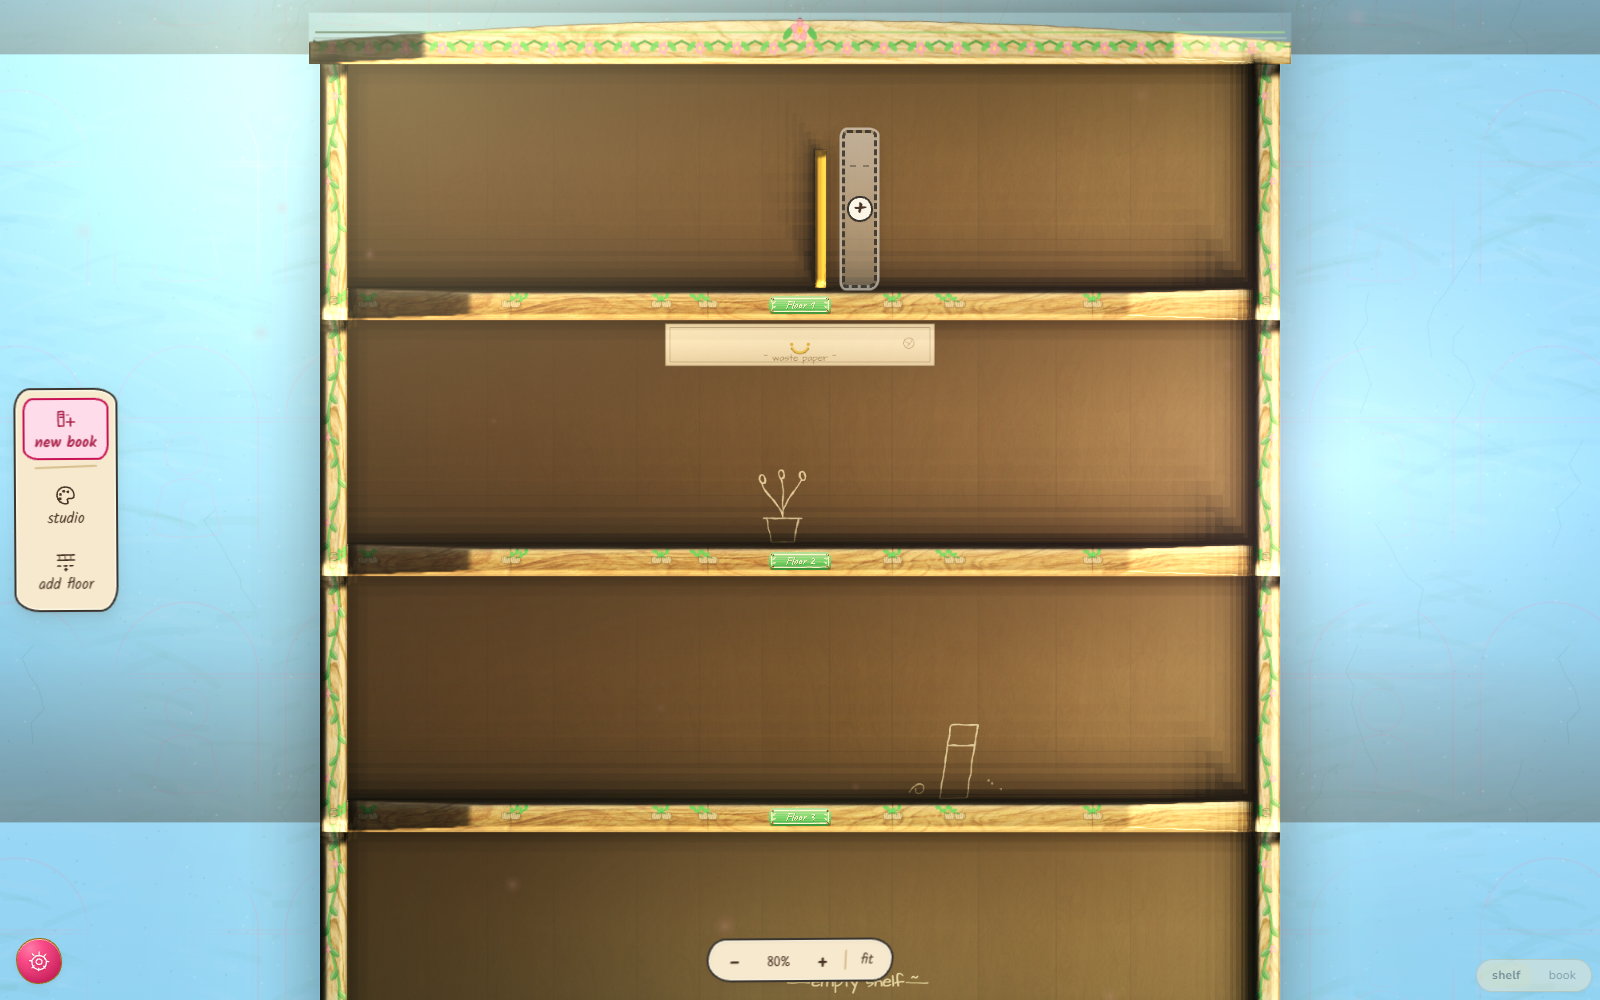
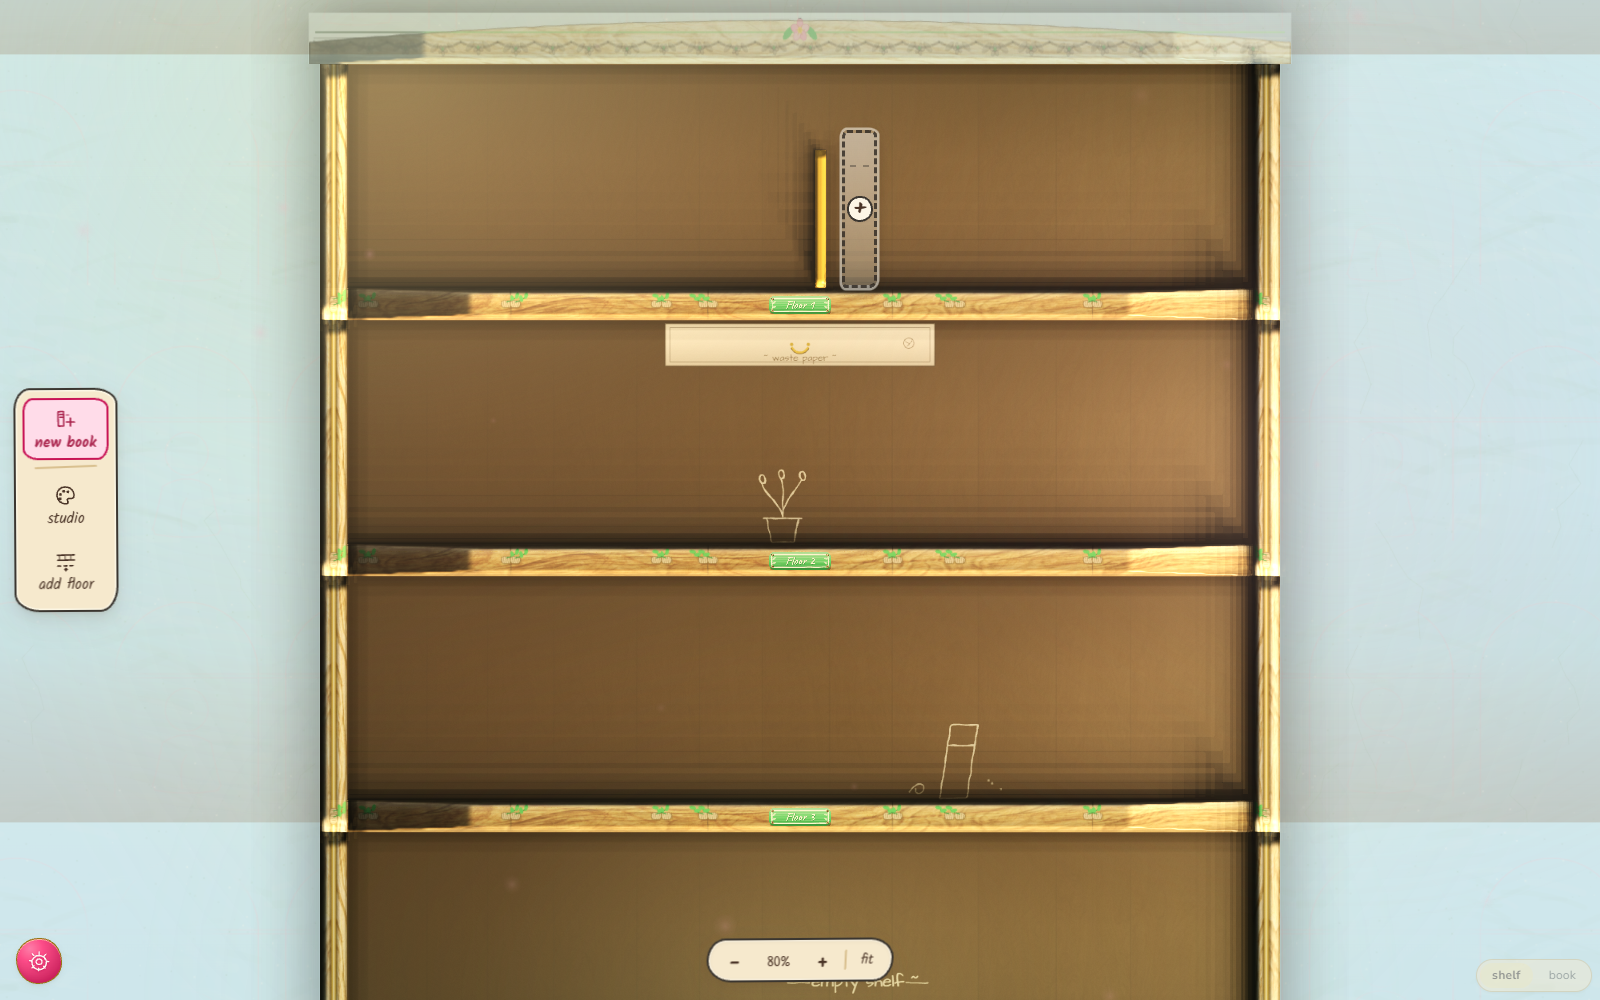
fix(art): carve the crown ornament, drop the painted-on rail vine
Both were coloured decals applied to timber, which reads as stickers rather
than furniture, and both repeated at a perfectly regular pitch (ART-BIBLE 5).

- Crown 'blossom' carving is now relief in wood tones: a shadowed incision
  with a lit upper arris, rosettes sunk with a proud gilt boss, every unit
  jittered in position, scale and spin.
- Blossom Grove's rail inlay was a bright green vine painted along the stile;
  it is now a brass bead. Real climbing growth belongs to the flora system,
  which paints with depth and light and places compositionally.

diff --git a/src/art/caseArt.ts b/src/art/caseArt.ts
@@ -838,43 +838,80 @@ export function renderCarving(
       break;
     }
     case 'blossom': {
-      // A green swag looping along the frieze with a blossom at every dip.
+      // A blossom swag CARVED into the frieze, not painted onto it.
+      //
+      // This used to draw saturated green swags and pink petals straight onto
+      // the timber, at a perfectly regular pitch. Two problems: coloured decals
+      // on wood read as stickers rather than furniture, and mechanical spacing
+      // is the loudest tell of computer-generated art (ART-BIBLE §5).
+      //
+      // So it is now relief: a shadowed incision with a lit upper arris, in
+      // wood tones only, with each rosette jittered per unit.
       const pitch = 46;
-      ctx.strokeStyle = 'rgba(47, 125, 60, 0.85)';
-      ctx.lineWidth = 2.4;
-      ctx.lineCap = 'round';
-      ctx.beginPath();
+      const swag = (dx: number, off: number, colour: string, width: number): void => {
+        ctx.strokeStyle = colour;
+        ctx.lineWidth = width;
+        ctx.lineCap = 'round';
+        ctx.beginPath();
+        ctx.moveTo(dx, y + h * 0.3 + off);
+        ctx.quadraticCurveTo(dx + pitch / 2, y + h * 1.02 + off, dx + pitch, y + h * 0.3 + off);
+        ctx.stroke();
+      };
+
       for (let dx = x; dx < x + w; dx += pitch) {
-        ctx.moveTo(dx, y + h * 0.3);
-        ctx.quadraticCurveTo(dx + pitch / 2, y + h * 1.05, dx + pitch, y + h * 0.3);
+        // Cut first (dark groove), then the light that catches its top edge.
+        swag(dx, 0.9, 'rgba(28, 16, 8, 0.42)', 3.0);
+        swag(dx, -0.5, 'rgba(255, 246, 224, 0.20)', 1.3);
       }
-      ctx.stroke();
+
       for (let dx = x; dx < x + w; dx += pitch) {
-        // Leaves either side of the dip.
-        const mx = dx + pitch / 2;
-        const my = y + h * 0.78;
-        ctx.fillStyle = 'rgba(95, 191, 98, 0.9)';
+        // Per-unit jitter: a chisel does not repeat exactly.
+        const jx = (rnd() - 0.5) * 3.2;
+        const jy = (rnd() - 0.5) * 1.8;
+        const scale = 0.86 + rnd() * 0.3;
+        const mx = dx + pitch / 2 + jx;
+        const my = y + h * 0.78 + jy;
+        if (mx + 8 > x + w) continue;
+
+        // Leaves either side — carved lobes, read by shadow under and light on top.
         for (const side of [-1, 1]) {
           ctx.save();
           ctx.translate(mx + side * 11, my - 2);
-          ctx.rotate(side * 0.7);
+          ctx.rotate(side * (0.62 + rnd() * 0.18));
+          ctx.fillStyle = 'rgba(30, 18, 9, 0.30)';
           ctx.beginPath();
-          ctx.ellipse(0, 0, 7, 3.4, 0, 0, Math.PI * 2);
+          ctx.ellipse(0, 1.1, 7 * scale, 3.4 * scale, 0, 0, Math.PI * 2);
+          ctx.fill();
+          ctx.fillStyle = 'rgba(255, 244, 220, 0.16)';
+          ctx.beginPath();
+          ctx.ellipse(0, -0.5, 6.2 * scale, 2.8 * scale, 0, 0, Math.PI * 2);
           ctx.fill();
           ctx.restore();
         }
-        // Blossom head: five petals + a sunny centre.
-        if (mx + 8 > x + w) continue;
-        ctx.fillStyle = 'rgba(255, 150, 190, 0.95)';
+
+        // Rosette: five petals sunk into the wood, with a proud boss.
+        const spin = rnd() * Math.PI;
         for (let p = 0; p < 5; p++) {
-          const a = (p / 5) * Math.PI * 2;
+          const a = spin + (p / 5) * Math.PI * 2;
+          const px = mx + Math.cos(a) * 3.4 * scale;
+          const py = my + Math.sin(a) * 3.4 * scale;
+          ctx.fillStyle = 'rgba(28, 16, 8, 0.34)';
           ctx.beginPath();
-          ctx.ellipse(mx + Math.cos(a) * 3.4, my + Math.sin(a) * 3.4, 3.4, 2.5, a, 0, Math.PI * 2);
+          ctx.ellipse(px, py + 0.8, 3.4 * scale, 2.5 * scale, a, 0, Math.PI * 2);
+          ctx.fill();
+          ctx.fillStyle = 'rgba(255, 246, 226, 0.17)';
+          ctx.beginPath();
+          ctx.ellipse(px, py - 0.5, 3.0 * scale, 2.1 * scale, a, 0, Math.PI * 2);
           ctx.fill();
         }
-        ctx.fillStyle = 'rgba(255, 222, 96, 0.95)';
+        // Centre boss catches the key light; `accent` lets a room gild it.
+        ctx.fillStyle = 'rgba(28, 16, 8, 0.34)';
         ctx.beginPath();
-        ctx.arc(mx, my, 1.9, 0, Math.PI * 2);
+        ctx.arc(mx, my + 0.7, 2.1 * scale, 0, Math.PI * 2);
+        ctx.fill();
+        ctx.fillStyle = hexAlpha(accent, 0.5);
+        ctx.beginPath();
+        ctx.arc(mx, my - 0.3, 1.7 * scale, 0, Math.PI * 2);
         ctx.fill();
       }
       // A pale sap-line above the swag ties it to the crown.

diff --git a/src/art/themes.ts b/src/art/themes.ts
@@ -711,8 +711,8 @@ const BLOSSOM: LibraryTheme = {
     centrepiece: 'blossom',
   },
   rail: {
-    inlay: 'vine',
-    inlayColour: '#5fbf62',
+    inlay: 'brass-bead',
+    inlayColour: '#c9a24a',
     edge: 'rounded',
     width: 34,
     ink: 'rgba(92, 74, 52, 0.5)',
